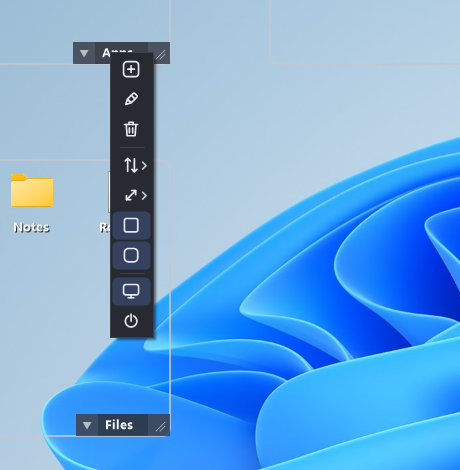
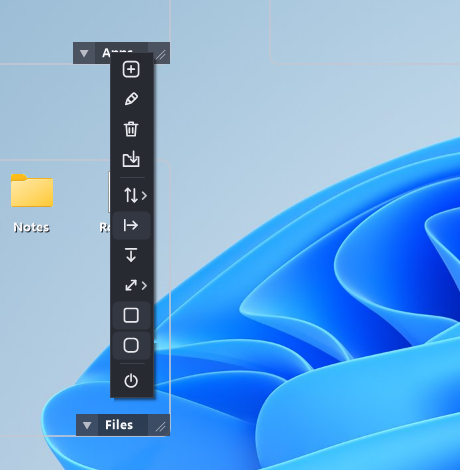
README and CHANGELOG: 1.2.8, 1.2.9 and the coming 1.3.1; current board menu
- CHANGELOG: 1.2.8 (with the unreleased 1.2.7 / 1.2.7.1; there was no 1.2.6), 1.2.9, and
  the next update 1.3.1, marked as not on the Microsoft Store yet.
- README: say that folder boards and the shortcut-arrow toggle arrive with 1.3.1 (the Store
  has 1.2.9); a new board opens on the monitor under the mouse; a desktop New opens
  straight into rename.
- docs/board-menu.png: the menu re-rendered from the app's own menu code (adds the folder
  board and item-flow buttons, drops the view toggle that moved to the tray), pasted over the
  same desktop.

Changed region(s): [[0.213, 0.2979, 0.3652, 0.8638]]

diff --git a/README.md b/README.md
@@ -6,6 +6,10 @@ It is designed to be quiet, local-first, and clean: one-time purchase, no ads, n
 
 **Website: [deskdrawer.pages.dev](https://deskdrawer.pages.dev/)** · **[Get it on the Microsoft Store](https://apps.microsoft.com/detail/9n904wfphzfz)**
 
+> **Coming in the next update (1.3.1):** [folder boards](#folder-boards) and the shortcut-arrow toggle
+> are documented below but are not in the Microsoft Store version yet (1.2.9). See the
+> [changelog](CHANGELOG.md).
+
 > **Full documentation is on the website.** This README is a quick visual guide; the site has the
 > complete manual, and it is the canonical source for how DeskDrawer behaves.
 >
@@ -26,7 +30,7 @@ The interface is icon-only. Every button is shown below exactly as it appears in
 
 | Button | Action |
 |:---:|---|
-| ![new](docs/icons/new.png) | **New board** |
+| ![new](docs/icons/new.png) | **New board** — it appears on the monitor your mouse is on |
 | ![rename](docs/icons/rename.png) | **Rename** this board (edits in place) |
 | ![delete](docs/icons/delete.png) | **Delete** this board — its icons return to the default board |
 | ![folderin](docs/icons/folderin.png) | **Make it a folder board** — the arrow points *into* the folder: a real folder named after the board is created on your desktop and the board's files move into it ([folder boards](#folder-boards)). Not available on the default board, or on a board that holds a system icon such as This PC or the Recycle Bin |
@@ -54,7 +58,7 @@ The interface is icon-only. Every button is shown below exactly as it appears in
 
 | Button | Action |
 |:---:|---|
-| ![new](docs/icons/new.png) | **New board** |
+| ![new](docs/icons/new.png) | **New board** — it appears on the monitor your mouse is on |
 | ![reset](docs/icons/reset.png) | **Fix misplaced boards** — boards that are off-screen, under the taskbar, or overlapping get re-placed (snapped next to other boards); well-placed boards are not moved |
 | ![monitor](docs/icons/monitor.png) | **Switch view** — toggle between your boards and the plain Windows desktop. Checked = board view (boards shown, native icons hidden); unchecked = the normal desktop (boards hidden, native icons back). The two are never shown at once, and creating a new board switches back to board view |
 | ![shortcut](docs/icons/shortcut.png) | **Shortcut arrows** — show or hide the small arrow in the corner of shortcut icons, like the one on the Windows desktop. Checked (the default) = shown |
@@ -120,6 +124,8 @@ Each board has a compact widget in its **bottom-right corner**: `[▾ arrow] [na
 
 ### Folder boards
 
+*New in 1.3.1, the next Microsoft Store update.*
+
 An ordinary board only *groups* icons — the files stay loose on your desktop. A **folder board** is
 backed by a real folder instead: `Desktop\<board name>`. The board shows what is inside that folder,
 and the folder itself never appears on any board. Folder boards look like any other board, plus faint
@@ -154,7 +160,7 @@ gets a free name (`name (2)`) if the folder already has one.
 | Drag selected icons | Move them between boards (or reorder within one); drag **out** to an Explorer window to copy/move the real files. Into or out of a folder board, the files move too |
 | Drag files **from** Explorer onto a board | The files land on the desktop and join that board — or, on a folder board, land in its folder |
 | Right-click an icon | The real Windows context menu (Open with, Send to, and extensions included) |
-| Right-click empty board space | The real Windows **desktop** menu — "New" files are created in that board (in a folder board's folder) |
+| Right-click empty board space | The real Windows **desktop** menu — "New" files are created in that board (in a folder board's folder) and open straight into rename |
 | Mouse wheel over a board | Scroll the board |
 | `Enter` / double-click | Open |
 | `F2` | Rename file |

diff --git a/CHANGELOG.md b/CHANGELOG.md
@@ -1,5 +1,52 @@
 # Changelog
 
+## Next update — 1.3.1 (not on the Microsoft Store yet)
+- **Folder boards** (new). Turn any board except the default one into a real folder on your desktop:
+  board menu → the folder-with-arrow button. The folder is named after the board, the board's files move
+  into it, and the board shows what is inside, marked by faint diagonal stripes. Drag icons in and out
+  to move the files, rename the board to rename the folder, and press the same button again to move the
+  files back onto the desktop and remove the empty folder. Nothing is ever overwritten. A board that
+  holds a system icon (This PC, Recycle Bin) can't be converted.
+- **Shortcut arrows** (new): shortcut icons now carry the small corner arrow, as on the Windows desktop,
+  with a tray-menu toggle to hide it. On by default.
+- A file made with the desktop's **New** menu opens straight into rename on its board, as on the normal
+  desktop, instead of keeping its default name.
+- A new board appears on the monitor your mouse is on, two icons wide and one tall.
+- Resizing a board now snaps flush against a neighbouring board, not only against the screen edge.
+- Fixed: pointing at the Recycle Bin could freeze the mouse and make the whole PC lag when the bin held
+  a very large number of items. (Thank you for the report.)
+- Fixed: the hover info tip could flicker on and off near the bottom-right corner of the screen.
+- Fixed: a file pasted or dropped onto a board, while a file with the same name was already on the
+  desktop, fell to the default board instead of joining the board you chose.
+- The drag preview is no longer drawn darker than the icon, and a line break pasted into a rename box
+  no longer ends up in the name.
+
+## 1.2.9
+- **Item flow, per board** (new): a board can fill rows left to right (the default) or fill columns top
+  to bottom — two new buttons in the board menu. A board that fills columns scrolls sideways.
+- In the Store version, a system icon hidden by an early version of DeskDrawer could stay hidden even
+  after **Bring back system icons**. It now comes back.
+- Smoother right after sign-in on a busy PC: if Windows is slow to let DeskDrawer run, it now backs off
+  instead of competing for the mouse, and repaints icons in smaller steps.
+- Lower memory use in some situations, for example while boards are hidden.
+
+## 1.2.8
+*Also contains the changes of 1.2.7 and its 1.2.7.1 hotfix, which were not released on their own.
+There was no 1.2.6.*
+- New tray button to **bring back system icons** (This PC, Recycle Bin…) that you removed from a board
+  with `Delete`. It appears only while one is hidden.
+- Boards fit back inside the screen when the work area changes — the taskbar set to auto-hide, a
+  toolbar docking, a resolution or scaling change.
+- Signing out or shutting down while DeskDrawer is running now always restores the native desktop
+  icons cleanly.
+- `.url` shortcuts — Steam game shortcuts, browser links — show their real icon instead of a blank page.
+- Icons fill their space properly instead of looking undersized inside a faint grey frame.
+- The rename box grows to fit the name you are editing.
+- Dragging icons over shortcuts is smoother, and copying no longer risks a pause of up to two seconds
+  while another app holds the clipboard.
+- Removing a system icon from a board can no longer be undone by a background refresh that happened at
+  the same moment.
+
 ## 1.2.5
 - A stability release fixing issues found in a further code audit — no new features.
 - Fixed a rare freeze (and mouse-wheel stall) that could happen when a mapped network drive was offline
